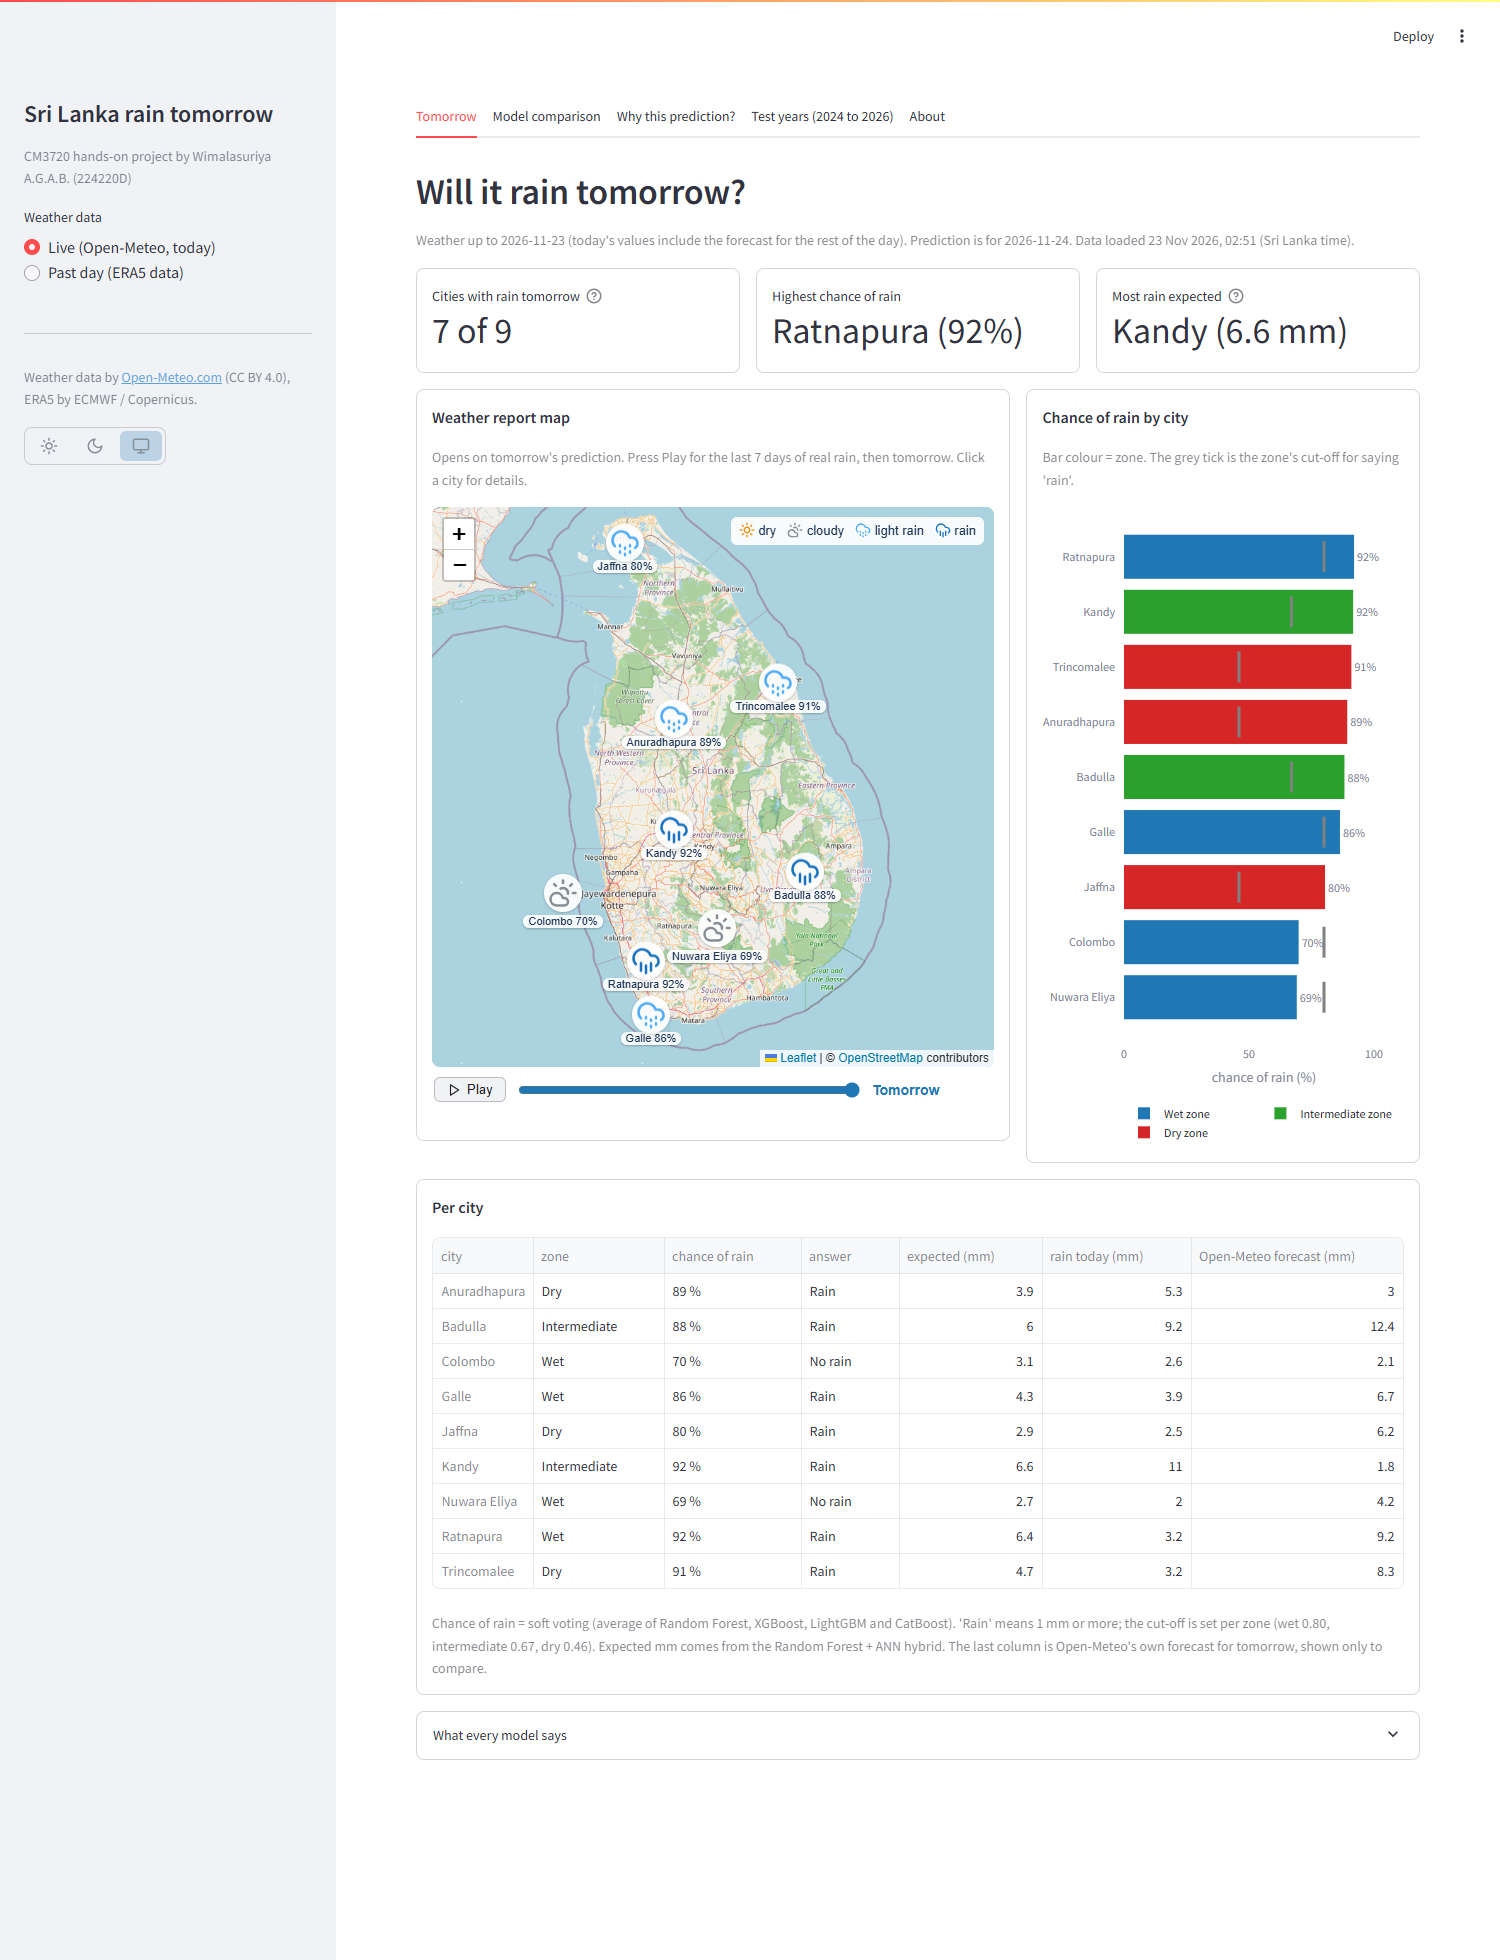
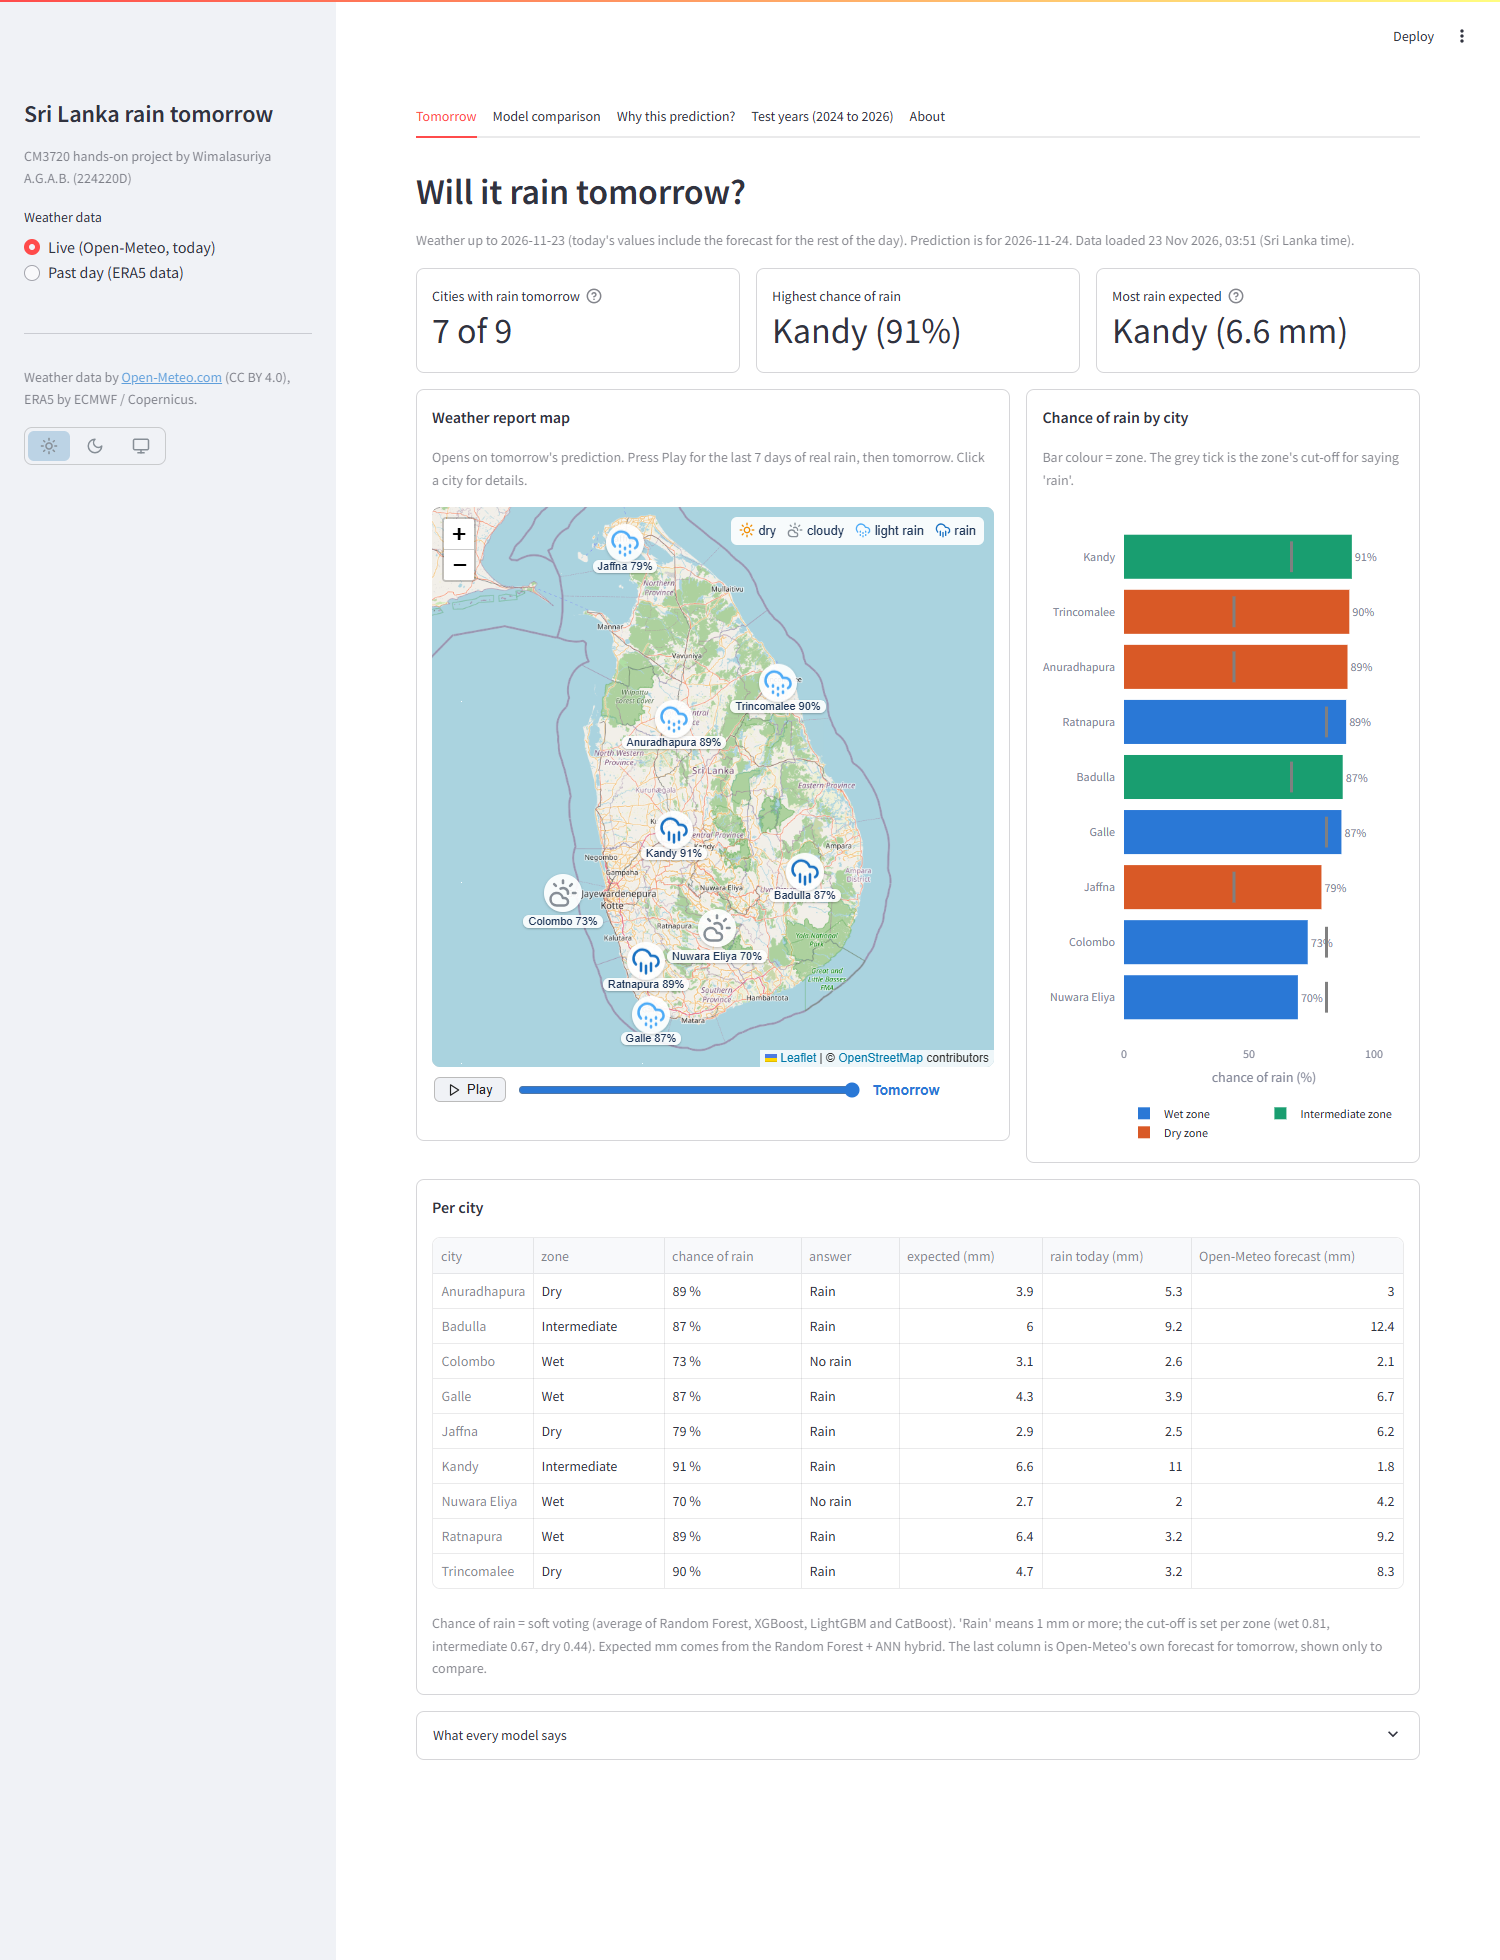
Update README with final results

diff --git a/README.md b/README.md
@@ -14,10 +14,10 @@ CM3720 Machine Learning & Pattern Recognition hands-on project by Wimalasuriya A
 
 - **Tomorrow:** chance of rain for every city on an OpenStreetMap weather map (press Play to see the last 7 days),
   chance by city with each zone's cut-off, and the expected amount of rain
-- **Model comparison:** all models on the test years, by zone and by monsoon season, and whether the chance of
-  rain can be trusted
-- **Why this prediction?:** SHAP explanation for any city
-- **Test years:** how the model did day by day in 2024 to 2026
+- **Model comparison:** all models on the test years with 95% intervals, by zone and by monsoon season, and
+  whether the chance of rain can be trusted
+- **Why this prediction?:** SHAP explanation for any city, and the features that matter most in each zone
+- **Test years:** confusion matrix and day-by-day results for each city in 2024 to 2026
 - Opens in light mode; dark mode and the computer's own setting can be chosen with the buttons in the sidebar
 
 Live app: *(link added after deployment)*
@@ -43,6 +43,11 @@ Weather data by Open-Meteo.com, licensed under CC BY 4.0.
 - **Models:** decision tree, bagging, Random Forest, AdaBoost, XGBoost, LightGBM, CatBoost, soft voting, stacking,
   ARIMA + Random Forest hybrid, and Random Forest + ANN for the amount of rain.
 - **Baselines:** climatology (the usual chance for that city) and persistence (tomorrow = today).
+- **Tuning:** a grid search for each model, scored on the validation years (not k-fold, which would mix days
+  from different years). The values tried and the reason for each are in the notebook (5.2), with checks for
+  overfitting and ccp_alpha pruning of the decision tree.
+- **Evaluation:** ROC-AUC, balanced accuracy, F1, precision and recall (classification report), confusion
+  matrices, calibration, bootstrap intervals, and results by zone, season and year.
 
 ## Results (test years 2024 to Nov 2026)
 
@@ -50,23 +55,23 @@ Weather data by Open-Meteo.com, licensed under CC BY 4.0.
 |---|---|---|---|
 | Baseline: climatology | 0.713 | 0.641 | 0.745 |
 | Baseline: persistence | 0.782 | 0.782 | 0.834 |
-| Decision tree | 0.868 | 0.785 | 0.840 |
-| Random Forest (bagging) | 0.886 | 0.792 | 0.851 |
-| XGBoost (boosting) | 0.888 | 0.794 | 0.851 |
-| CatBoost (boosting) | 0.889 | 0.794 | 0.851 |
-| Stacking | 0.889 | 0.790 | 0.855 |
-| **Soft voting** | **0.889** | 0.797 | 0.854 |
-| Hybrid: ARIMA + RF | 0.888 | **0.802** | 0.854 |
+| Decision tree | 0.875 | 0.779 | 0.839 |
+| Random Forest (bagging) | 0.886 | 0.792 | 0.852 |
+| XGBoost (boosting) | 0.888 | 0.796 | 0.851 |
+| **CatBoost (boosting)** | **0.890** | 0.796 | 0.853 |
+| Stacking | 0.889 | 0.789 | **0.854** |
+| Soft voting (used in the dashboard) | 0.889 | 0.797 | **0.854** |
+| Hybrid: ARIMA + RF | 0.888 | **0.800** | **0.854** |
 
 Rain amount: Random Forest + ANN gave the lowest error (MAE 4.34 mm, R² 0.33), compared with 5.33 mm for persistence.
 
 Main findings:
 
 - Every ensemble beats the simple baselines and a single tree, but the differences between the ensembles are small.
-  A bootstrap of the test days (1,000 resamples) shows that CatBoost, XGBoost, stacking and the ARIMA + RF hybrid
-  cannot be told apart from soft voting.
-- The chances given by soft voting match how often it really rained (lowest Brier score, 0.130), so the dashboard
-  shows them as they are. Stacking was over-confident at high chances.
+  A bootstrap of the test days (1,000 resamples) shows that CatBoost, XGBoost and stacking cannot be told apart
+  from soft voting.
+- The chances given by soft voting match how often it really rained (lowest Brier score, 0.130, tied with
+  CatBoost), so the dashboard shows them as they are. Stacking was over-confident at high chances.
 - The wet zone is the easiest to predict and the dry zone in the first inter-monsoon is the hardest. With the zone
   cut-offs, the intermediate zone missed the most rain days (31%).
 - Choosing the cut-off for each zone raised the wet zone's balanced accuracy from 0.72 to 0.80.
